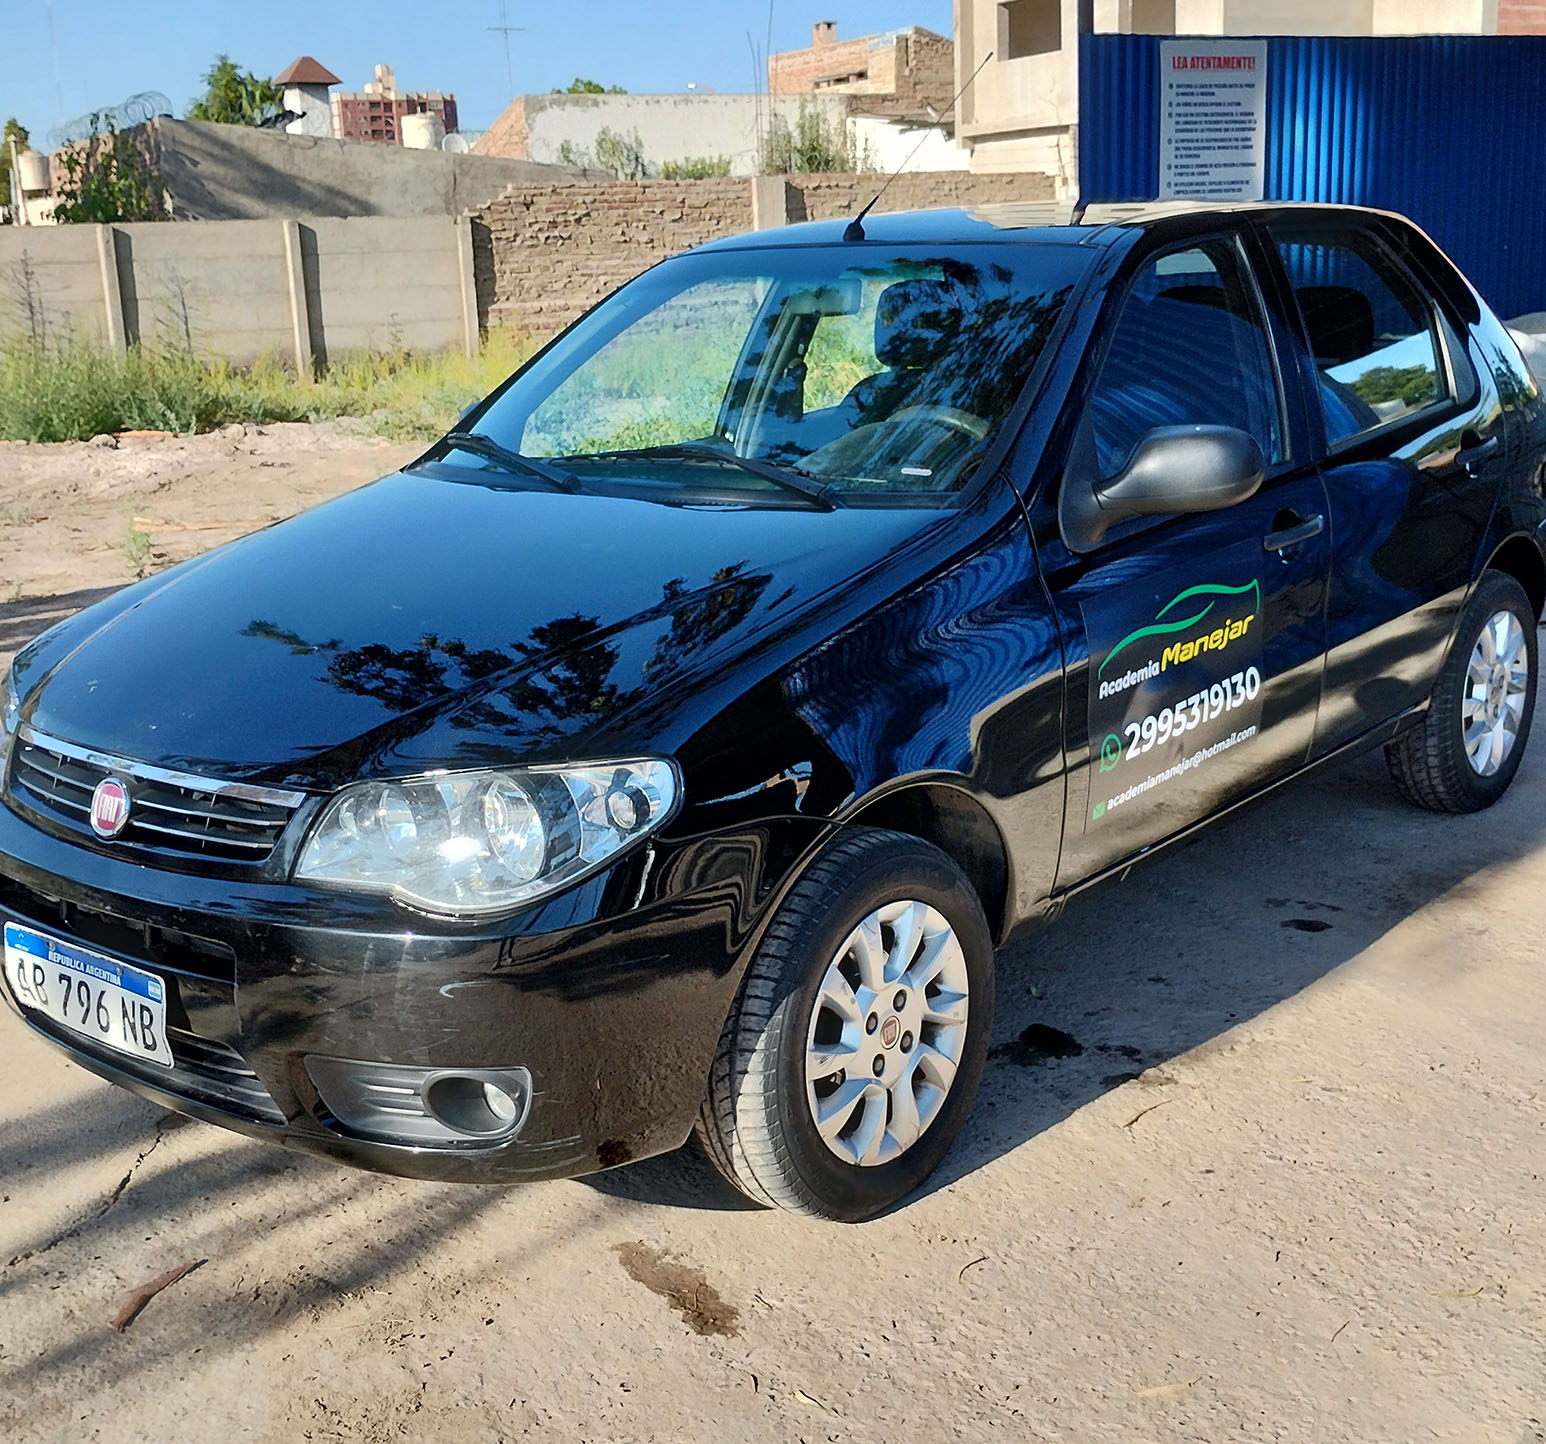
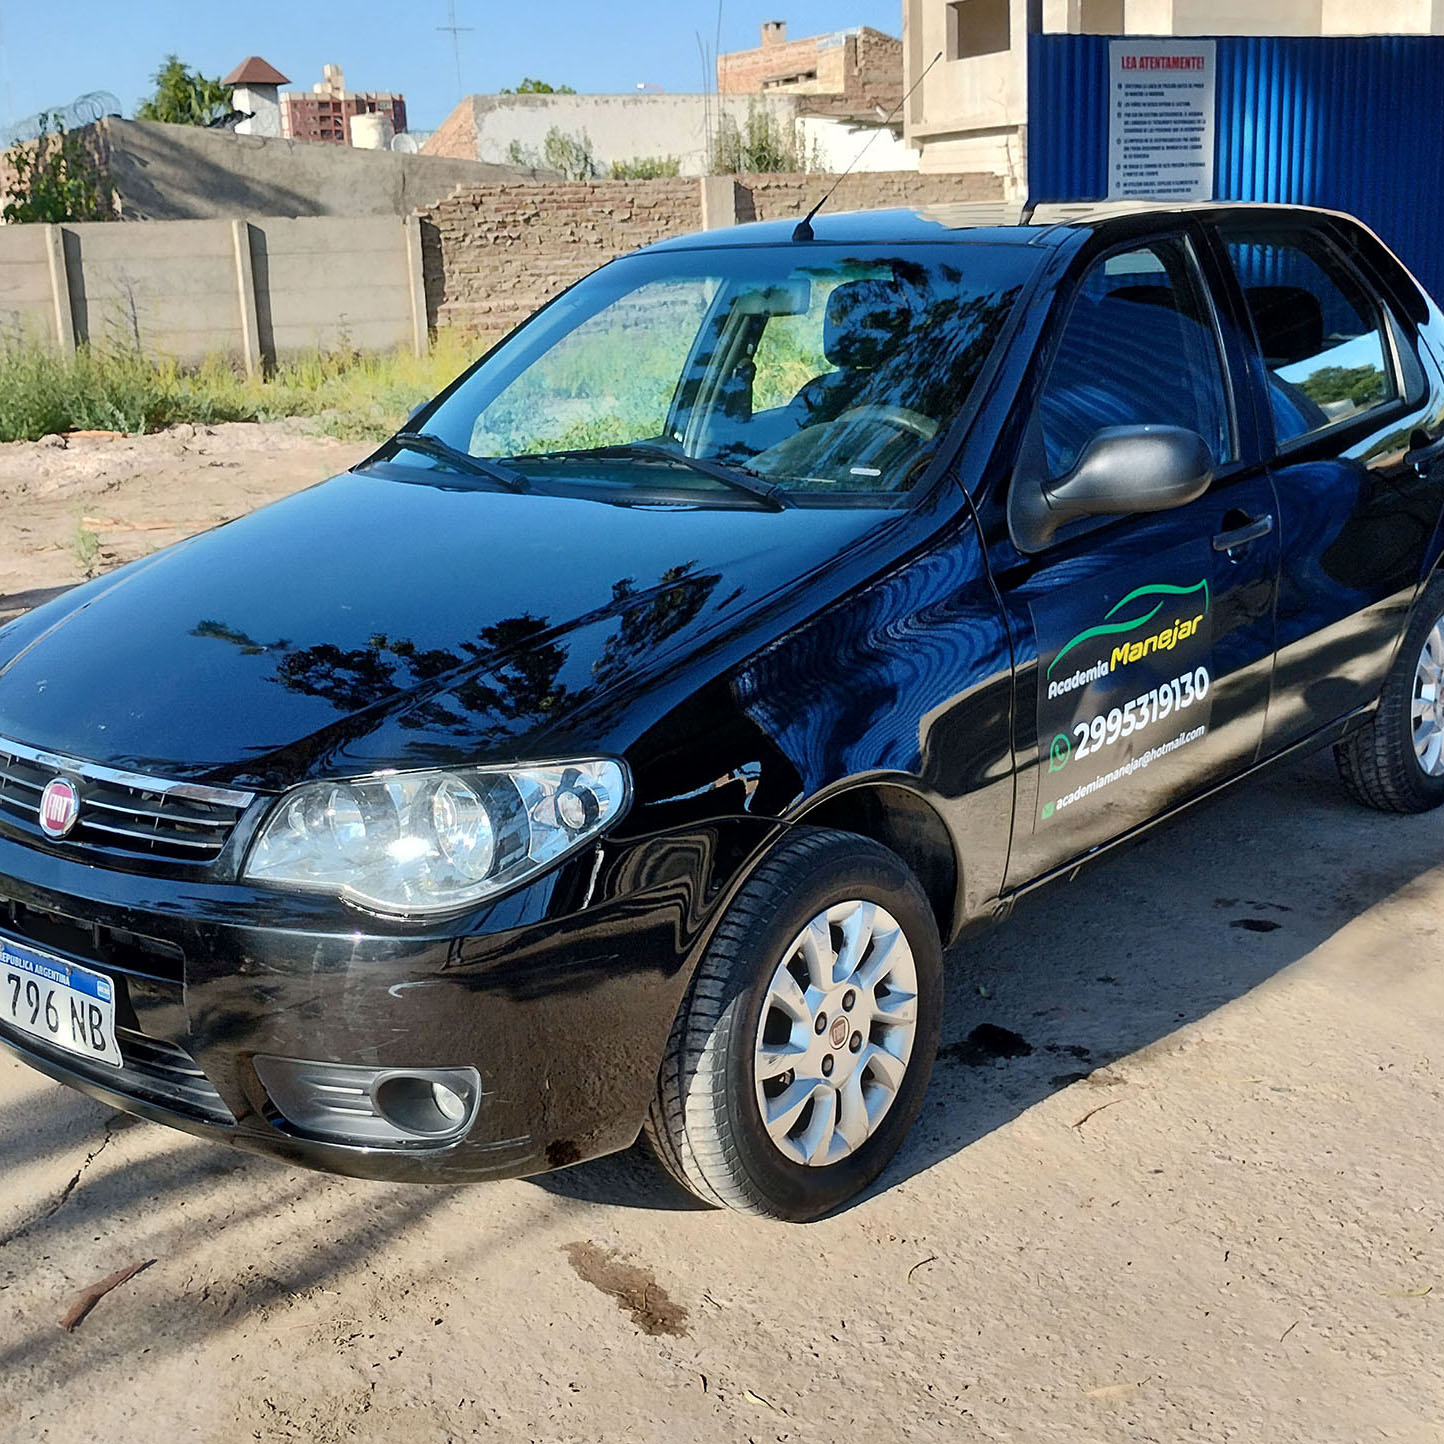
se adapto el tamano de las imagenes al carrusel

diff --git a/index.html b/index.html
@@ -208,7 +208,7 @@
           <div class="carousel-inner">
             <div class="carousel-item active">
               <img
-                src="./assets/img/academia_manejar/1.jpg"
+                src="./assets/img/academia_manejar/12.jpg"
                 class="d-block w-100 mx-auto"
                 alt="..."
               />
@@ -229,7 +229,7 @@
             </div>
             <div class="carousel-item">
               <img
-                src="./assets/img/academia_manejar/7.jpg"
+                src="./assets/img/academia_manejar/4.jpg"
                 class="d-block w-100 mx-auto"
                 alt="..."
               />
@@ -243,7 +243,7 @@
             </div>
             <div class="carousel-item">
               <img
-                src="./assets/img/academia_manejar/10.jpg"
+                src="./assets/img/academia_manejar/11.jpg"
                 class="d-block w-100 mx-auto"
                 alt="..."
               />
